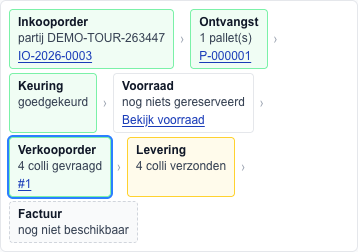
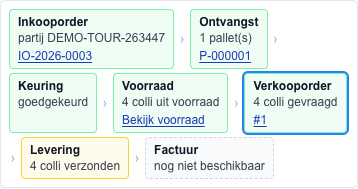
feat(keten): knoppen voor de volgende stap
- Inkooporder: knop "Ontvangen" opent Ontvangst met deze order gekozen
  (zolang er in het eigen magazijn nog iets te ontvangen is).
- Ontvangst (na boeken): "Naar keuring" is de hoofdknop en opent de pallet van
  deze ontvangst in Keuring; "Bekijk beschikbaarheid" staat ernaast.
- Keuring (na goedkeuren): knop "Bekijk voorraad" opent Beschikbaarheid voor
  dit artikel (was een tekstlink).
- Verkooporder: stappenbalk 1. Reserveren › 2. Verzenden › 3. Aflevering
  bevestigen, met de stap die nu aan de beurt is en één zin wat je doet; de
  bestaande knoppen blijven waar ze staan.
Verkopen vanuit Beschikbaarheid, "Factuur toevoegen" en "Factuur maken" volgen
in latere rondes.

diff --git a/agf-frontend/src/components/purchase/PurchaseOrderNextStep.test.tsx b/agf-frontend/src/components/purchase/PurchaseOrderNextStep.test.tsx
@@ -1,0 +1,39 @@
+import '../../test/setupDom.ts';
+import assert from 'node:assert/strict';
+import { afterEach, beforeEach, describe, test } from 'node:test';
+import { Mounted } from '../../test/reactHarness.ts';
+import type { PurchaseOrderDetail as Order } from '../../types/purchaseOrder';
+import PurchaseOrderDetail from './PurchaseOrderDetail';
+
+// Volgende stap op de inkooporder: "Ontvangen" opent Ontvangst met deze order gekozen, zolang er nog iets te ontvangen is in het eigen
+// magazijn. Bovenaan staat de keten-strip met deze order als huidige stap.
+const order = (over: Partial<Order> = {}): Order => ({
+    id: 3, orderNumber: 'IO-2026-0003', vendorId: 1, vendorName: "Nature's Pride", supplierReference: null, orderedOn: '2026-11-02', orderChannel: null, note: null,
+    route: 'Warehouse', customerName: null, origin: 'Peru', destination: null, expectedAt: null, status: 'Expected', storedStatus: 'Expected', invoiceIndicator: 'None',
+    expectedQuantity: 20, expectedNetWeightKg: 80, receivedQuantity: 0, receivedNetWeightKg: 0, rejectedQuantity: 0, rejectedNetWeightKg: 0,
+    lines: [{ id: 31, productVariantId: 7, productName: 'Avocado', productVariantName: 'Hass', lotNumber: null, expectedQuantity: 20, unit: 'colli', expectedNetWeightKg: 80,
+        receivedQuantity: 0, receivedNetWeightKg: 0, rejectedQuantity: 0, rejectedNetWeightKg: 0 }],
+    receipts: [], invoiceRefs: [], rejections: [], history: [], salesOrders: [], deviations: [], ...over,
+});
+
+let mounted: Mounted;
+const receive = () => mounted.container.querySelector<HTMLAnchorElement>('[data-tour="po-receive"]');
+
+describe('PurchaseOrderDetail next step', () => {
+    beforeEach(() => { mounted = new Mounted(); });
+    afterEach(async () => { await mounted.unmount(); });
+
+    test('"Ontvangen" opens Receipt with this order chosen while something is still to be received', async () => {
+        await mounted.render(<PurchaseOrderDetail order={order({ receivedQuantity: 5 })} onChanged={() => {}} />);
+        assert.equal(receive()?.getAttribute('href'), '/receipts?order=3');
+        assert.equal(receive()?.textContent, 'po_receive');
+        assert.equal(mounted.container.querySelector('[data-chain-step="order"]')?.getAttribute('aria-current'), 'step', 'the chain strip sits on top');
+    });
+
+    test('no "Ontvangen" when everything is received, for customer-bound supply or a cancelled order', async () => {
+        for (const over of [{ receivedQuantity: 20 }, { route: 'DirectTrade' }, { status: 'Cancelled', storedStatus: 'Cancelled' }]) {
+            await mounted.render(<PurchaseOrderDetail order={order(over)} onChanged={() => {}} />);
+            assert.equal(receive(), null, JSON.stringify(over));
+        }
+    });
+});

diff --git a/agf-frontend/src/components/purchase/PurchaseOrderDetail.tsx b/agf-frontend/src/components/purchase/PurchaseOrderDetail.tsx
@@ -1,5 +1,6 @@
 'use client';
 
+import Link from 'next/link';
 import { useTranslation } from '../../i18n/LanguageContext';
 import { formatDateTime, formatKg, formatMoney, formatQuantity, qualityStyle } from '../../lib/availability';
 import { formatCalendarDate, formatDateOnly } from '../../lib/calendarDate';
@@ -7,6 +8,7 @@ import { purchaseOrderChain } from '../../lib/chain';
 import { DECISION_LABEL_KEYS, REASON_LABEL_KEYS, labelKey, lineAmountParts } from '../../lib/purchaseOrderRules';
 import type { PurchaseOrderDetail as Order, PurchaseOrderHistoryEvent } from '../../types/purchaseOrder';
 import ChainStrip from '../shared/ChainStrip';
+import { primaryButtonClass } from '../supply/SuccessPanel';
 import { InvoiceIndicatorBadge, OrderStatusBadge } from './PurchaseOrderBadges';
 import DeviationsSection from './DeviationsSection';
 import ReceiptsSection from './ReceiptsSection';
@@ -24,6 +26,8 @@ export default function PurchaseOrderDetail({ order, onChanged, invoices }: {
     invoices?: React.ReactNode;
 }) {
     const { t, locale } = useTranslation();
+    // Volgende stap: ontvangen, zolang er van een inkooporder voor het eigen magazijn nog iets openstaat.
+    const receivable = order.route === 'Warehouse' && order.status !== 'Cancelled' && order.storedStatus !== 'Cancelled' && order.receivedQuantity < order.expectedQuantity;
     const label = (keys: Readonly<Record<string, string>>, value: string | null) => { const key = labelKey(keys, value); return key ? t(key) : (value ?? '–'); };
     const qty = (value: number) => formatQuantity(value, locale);
     // Herkenbare naam van een andere regel van deze order: het onderscheidende kenmerk (herkomst, maat of verpakking).
@@ -35,6 +39,9 @@ export default function PurchaseOrderDetail({ order, onChanged, invoices }: {
             <header className={section}>
                 <div className="flex flex-wrap items-center justify-between gap-2">
                     <h2 id="po-detail-title" data-tour="po-detail-number" className="font-mono text-2xl font-bold text-gray-900">{order.orderNumber}</h2>
+                    {receivable && (
+                        <Link href={`/receipts?order=${order.id}`} data-tour="po-receive" className={`${primaryButtonClass} ml-auto`}>{t('po_receive')}</Link>
+                    )}
                     <span className="flex flex-wrap gap-1"><OrderStatusBadge status={order.status} /><span data-tour="po-invoice-indicator" data-tour-key={order.invoiceIndicator}><InvoiceIndicatorBadge indicator={order.invoiceIndicator} /></span></span>
                 </div>
                 <p className="mt-1 break-words text-sm text-gray-900">

diff --git a/agf-frontend/src/components/sales/SalesStepBar.test.tsx b/agf-frontend/src/components/sales/SalesStepBar.test.tsx
@@ -1,0 +1,34 @@
+import '../../test/setupDom.ts';
+import assert from 'node:assert/strict';
+import { afterEach, beforeEach, describe, test } from 'node:test';
+import { Mounted } from '../../test/reactHarness.ts';
+import type { SalesOrder, SalesOrderLine } from '../../types/salesOrder';
+import SalesStepBar from './SalesStepBar';
+
+// De volgorde op de verkooporder: 1. Reserveren › 2. Verzenden › 3. Aflevering bevestigen, met de stap die nu aan de beurt is.
+const line = (over: Partial<SalesOrderLine>) => ({ openQuantity: 0, reservedQuantity: 0, allocatedQuantity: 0, ...over } as SalesOrderLine);
+const order = (lines: SalesOrderLine[], over: Partial<SalesOrder> = {}) => ({ status: 'Open', delivered: false, lines, ...over } as SalesOrder);
+let mounted: Mounted;
+const current = () => mounted.container.querySelector('[aria-current="step"]')?.textContent?.replace('›', '');
+
+describe('SalesStepBar', () => {
+    beforeEach(() => { mounted = new Mounted(); });
+    afterEach(async () => { await mounted.unmount(); });
+
+    test('marks the step that is next and says what to do', async () => {
+        await mounted.render(<SalesStepBar order={order([line({ openQuantity: 4 })])} />);
+        assert.equal(current(), '1. sales_step_reserve');
+        assert.ok(mounted.hasText('sales_next_reserve'));
+        await mounted.render(<SalesStepBar order={order([line({ reservedQuantity: 4 })])} />);
+        assert.equal(current(), '2. sales_step_dispatch');
+        assert.ok(mounted.hasText('✓ sales_step_reserve'), 'a passed step is ticked');
+        await mounted.render(<SalesStepBar order={order([line({})], { delivered: true })} />);
+        assert.equal(current(), undefined);
+        assert.ok(mounted.hasText('sales_next_done'));
+    });
+
+    test('nothing on a cancelled order', async () => {
+        await mounted.render(<SalesStepBar order={order([line({ openQuantity: 4 })], { status: 'Cancelled' })} />);
+        assert.equal(mounted.container.textContent, '');
+    });
+});

diff --git a/agf-frontend/src/components/sales/SalesStepBar.tsx b/agf-frontend/src/components/sales/SalesStepBar.tsx
@@ -1,0 +1,30 @@
+'use client';
+
+import { useTranslation } from '../../i18n/LanguageContext';
+import { SALES_STEPS, salesNextStep } from '../../lib/salesNextStep';
+import type { SalesOrder } from '../../types/salesOrder';
+
+// De volgorde op een verkooporder in één regel: 1. Reserveren › 2. Verzenden › 3. Aflevering bevestigen, met de stap die nu aan de
+// beurt is gemarkeerd en één zin wat je daarvoor doet. De knoppen zelf blijven waar ze staan (per regel reserveren, Verzenden in de kop).
+export default function SalesStepBar({ order }: { order: SalesOrder }) {
+    const { t } = useTranslation();
+    const next = salesNextStep(order);
+    if (next === 'cancelled') return null;
+    return (
+        <div className="rounded-md border border-blue-200 bg-blue-50 px-4 py-2 text-sm text-blue-950" data-tour="sales-steps" data-tour-key={next}>
+            <ol className="flex flex-wrap items-center gap-x-2 gap-y-1">
+                {SALES_STEPS.map((step, index) => {
+                    const passed = next === 'done' || SALES_STEPS.indexOf(next as typeof step) > index;
+                    return (
+                        <li key={step} aria-current={next === step ? 'step' : undefined}
+                            className={`flex items-center gap-1 ${next === step ? 'font-semibold' : passed ? 'text-green-800' : 'text-blue-900/70'}`}>
+                            {index > 0 && <span aria-hidden="true" className="text-blue-400">›</span>}
+                            <span>{passed ? '✓ ' : `${index + 1}. `}{t(`sales_step_${step}`)}</span>
+                        </li>
+                    );
+                })}
+            </ol>
+            <p className="mt-0.5 text-xs">{t(`sales_next_${next}`)}</p>
+        </div>
+    );
+}

diff --git a/agf-frontend/src/lib/salesNextStep.test.ts b/agf-frontend/src/lib/salesNextStep.test.ts
@@ -1,0 +1,19 @@
+import assert from 'node:assert/strict';
+import { describe, test } from 'node:test';
+import type { SalesOrderLine } from '../types/salesOrder';
+import { salesNextStep } from './salesNextStep.ts';
+
+const line = (over: Partial<SalesOrderLine>) => ({ openQuantity: 0, reservedQuantity: 0, allocatedQuantity: 0, ...over } as SalesOrderLine);
+const order = (lines: SalesOrderLine[], over: { status?: string; delivered?: boolean } = {}) => ({ status: 'Open', delivered: false, lines, ...over });
+
+describe('next step on a sales order', () => {
+    test('reserve first, then dispatch, then confirm delivery; done when delivered; nothing on a cancelled order', () => {
+        assert.equal(salesNextStep(order([line({ openQuantity: 10 })])), 'reserve');
+        assert.equal(salesNextStep(order([line({ openQuantity: 4, reservedQuantity: 6 })])), 'reserve', 'something is still open');
+        assert.equal(salesNextStep(order([line({ reservedQuantity: 10 })])), 'dispatch');
+        assert.equal(salesNextStep(order([line({ allocatedQuantity: 10 })])), 'dispatch', 'customer-bound allocation is shipped too');
+        assert.equal(salesNextStep(order([line({})])), 'confirm', 'all dispatched, delivery not confirmed yet');
+        assert.equal(salesNextStep(order([line({})], { delivered: true })), 'done');
+        assert.equal(salesNextStep(order([line({ openQuantity: 10 })], { status: 'Cancelled' })), 'cancelled');
+    });
+});

diff --git a/agf-frontend/src/components/supply/ReceivePalletForm.tsx b/agf-frontend/src/components/supply/ReceivePalletForm.tsx
@@ -685,10 +685,10 @@ export default function ReceivePalletForm({ actor, preselected, onPreselectedCon
                 note={replayed ? t('supply_saved_before') : undefined}
                 actions={(
                     <>
-                        <Link href={href} className={primaryButtonClass}>{t('supply_view_availability')}</Link>
                         {frozen.pallet.result && (
-                            <Link href={`/inspection?palletId=${frozen.pallet.result.id}`} data-tour="receive-to-inspection" className={secondaryButtonClass}>{t('supply_to_inspection')}</Link>
+                            <Link href={`/inspection?palletId=${frozen.pallet.result.id}`} data-tour="receive-to-inspection" className={primaryButtonClass}>{t('supply_to_inspection')}</Link>
                         )}
+                        <Link href={href} className={secondaryButtonClass}>{t('supply_view_availability')}</Link>
                         <button type="button" className={secondaryButtonClass} onClick={() => reset(null)}>{t('supply_another_pallet')}</button>
                     </>
                 )}

diff --git a/agf-frontend/src/components/inspection/PalletGroup.tsx b/agf-frontend/src/components/inspection/PalletGroup.tsx
@@ -66,9 +66,9 @@ export default function PalletGroup({ context, actor, statusFilter, search, read
                                 kg: formatKg(notice.availableNow.netWeightKg, locale),
                             })}
                     </p>
-                    <Link href={availabilityHref({ route: 'Warehouse', focus: 'available', productVariantId: notice.productVariantId })}
-                        className="mt-1 inline-block font-medium text-blue-800 underline underline-offset-2">
-                        {t('supply_view_availability')}
+                    <Link href={availabilityHref({ route: 'Warehouse', focus: 'available', productVariantId: notice.productVariantId })} data-tour="inspection-view-stock"
+                        className="mt-2 inline-flex items-center rounded bg-blue-700 px-3 py-1.5 text-sm font-semibold text-white hover:bg-blue-800 focus:outline-none focus:ring-2 focus:ring-blue-500 focus:ring-offset-1">
+                        {t('inspection_view_stock')}
                     </Link>
                 </div>
             )}

diff --git a/agf-frontend/src/lib/salesNextStep.ts b/agf-frontend/src/lib/salesNextStep.ts
@@ -1,0 +1,17 @@
+import type { SalesOrder } from '../types/salesOrder';
+
+// De volgorde op een verkooporder: 1. reserveren (of klantgebonden aanvoer toewijzen), 2. verzenden, 3. aflevering bevestigen. Welke stap
+// nu aan de beurt is, volgt uit de regels zoals de server ze geeft (open, gereserveerd, verzonden, afgeleverd); niets afgeleid daarbuiten.
+// Geen imports buiten typen: met node:test te toetsen.
+
+export type SalesStep = 'reserve' | 'dispatch' | 'confirm';
+export type SalesNextStep = SalesStep | 'done' | 'cancelled';
+export const SALES_STEPS: readonly SalesStep[] = ['reserve', 'dispatch', 'confirm'];
+
+export function salesNextStep(order: Pick<SalesOrder, 'status' | 'delivered' | 'lines'>): SalesNextStep {
+    if (order.status === 'Cancelled') return 'cancelled';
+    if (order.lines.some((line) => line.openQuantity > 0)) return 'reserve';
+    if (order.lines.some((line) => line.reservedQuantity > 0 || line.allocatedQuantity > 0)) return 'dispatch';
+    if (!order.delivered) return 'confirm';
+    return 'done';
+}

diff --git a/agf-frontend/src/components/sales/SalesOrderDetail.tsx b/agf-frontend/src/components/sales/SalesOrderDetail.tsx
@@ -25,6 +25,7 @@ import OrderLinePanel from './OrderLinePanel';
 import { usePendingCommands } from './PendingCommandsContext';
 import { ExpectedAllocationBadge, OnHoldBadge, OrderStatusBadge } from './ReservationBadges';
 import ChainStrip from '../shared/ChainStrip';
+import SalesStepBar from './SalesStepBar';
 import { salesOrderChain } from '../../lib/chain';
 
 // Detail van één verkooporder: kop, voortgang, annuleren (alleen Open) en per regel reserveren of vrijgeven.
@@ -374,6 +375,7 @@ export default function SalesOrderDetail({ order, actor, onOrderChanged, onRefre
                     </div>
                 )}
             </header>
+            <SalesStepBar order={order} />
 
             {dispatchNotice && (
                 <div role="status" data-tour="sales-dispatch-done" className="rounded border border-green-300 bg-green-50 px-3 py-2 text-sm text-green-900">
